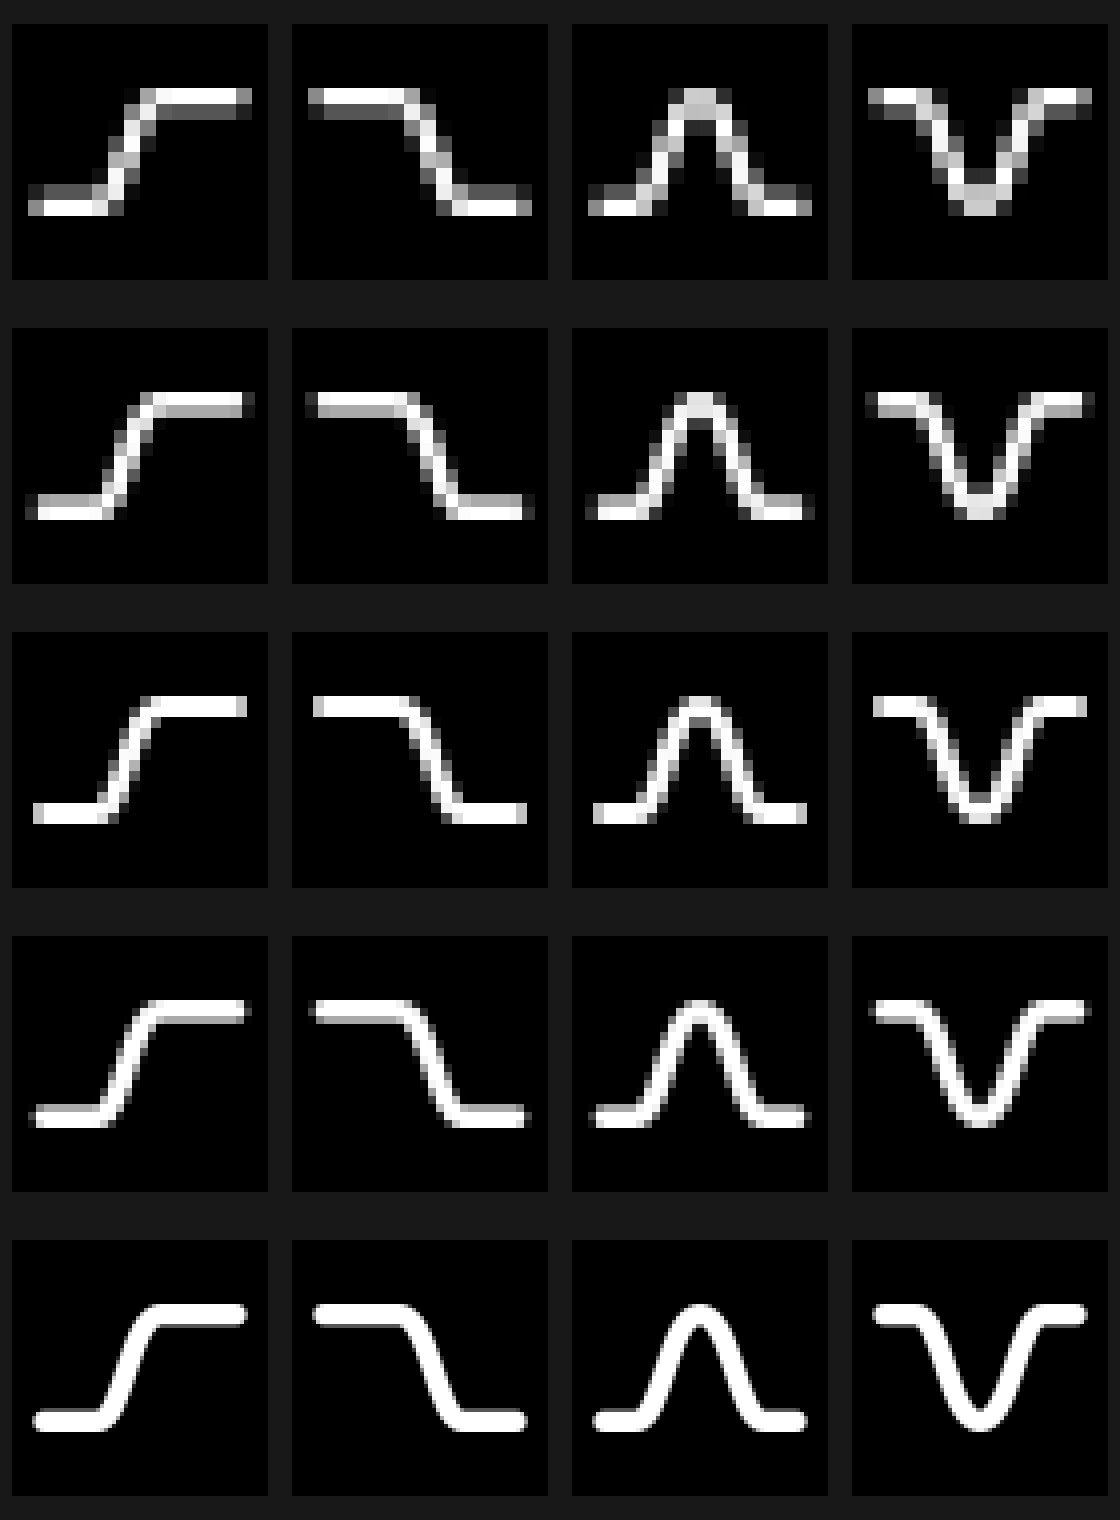
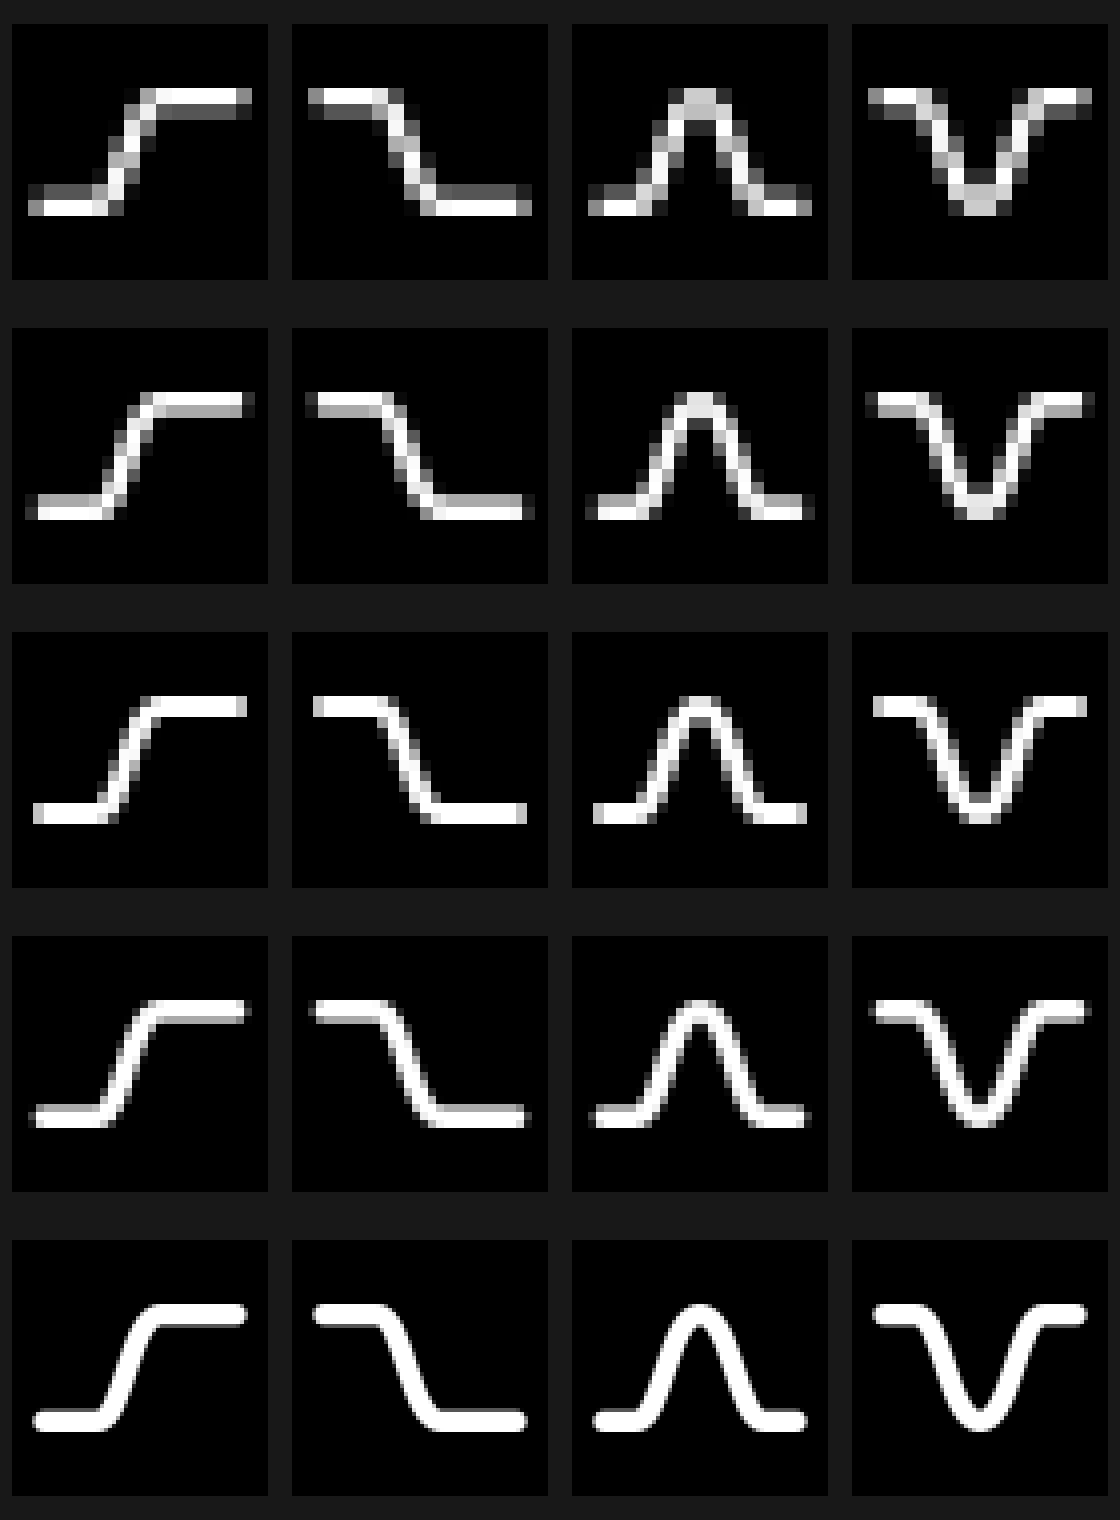
artwork: align draft family and index candidates

diff --git a/artwork/review/monoline-linear.md b/artwork/review/monoline-linear.md
@@ -8,7 +8,7 @@ Every asset remains `draft`. These candidates are original repository-authored g
 
 ## Construction system
 
-All four candidates use a 24-unit square, a single continuous open path, a 2-unit `currentColor` stroke, round caps and joins, endpoints at x=3 and x=21, and response levels at y=7 and y=17. High-pass and low-pass use one cubic transition. Band-pass and band-stop use two mirrored cubic transitions centered at x=12. Only response-class topology and direction vary.
+All four candidates use a 24-unit square, a single continuous open path, a 2-unit `currentColor` stroke, round caps and joins, endpoints at x=3 and x=21, and response levels at y=7 and y=17. High-pass and low-pass are vertical inversions with one shared-position cubic transition. Band-pass and band-stop are vertical inversions with two mirrored cubic transitions centered at x=12. Only response-class topology and direction vary.
 
 The system intentionally omits axes, labels, gain baselines, parameter values, cutoff markers, resonance, slope order, bandwidth, center frequency, interaction state, and product context.
 
